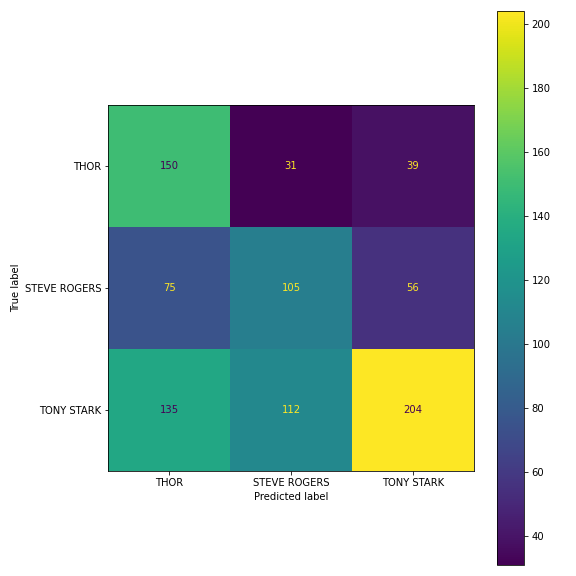
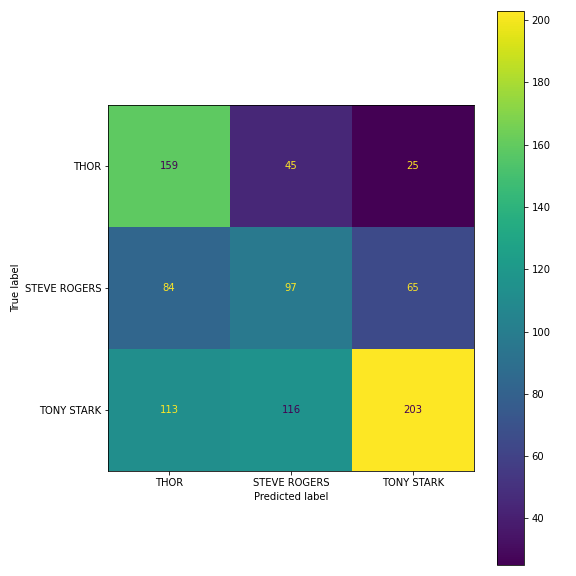
pre pres

diff --git a/src/ImageClassification.py b/src/ImageClassification.py
@@ -64,18 +64,16 @@ def PlotAccuracy(model):
     None
 
     """
-    plt.plot(model.history.history['accuracy'])
-    legends = ['train']
+    fig, ax = plt.subplots(figsize=(8, 8))
+    ax.plot(model.history.history['accuracy'], label="train")
     if 'val_accuracy' in model.history.history:
-        plt.plot(model.history.history['val_accuracy'])
-        legends.append('train')
+        ax.plot(model.history.history['val_accuracy'], label='test')
 
-    plt.title(f'{model.name} Model Accuracy')
-    plt.ylabel('accuracy')
-    plt.xlabel('epoch')
-    plt.legend(legends, loc='upper left')
-    plt.show()
-    plt.savefig(f'../plots/accuracy_{model.name}_model.png')
+    ax.set_title(f'{model.name} Model Accuracy')
+    ax.set_ylabel('accuracy')
+    ax.set_xlabel('epoch')
+    fig.legend(loc='upper left')
+    fig.savefig(f'../plots/accuracy_{model.name}_model.png')
     pass
 
 
@@ -95,6 +93,7 @@ def PlotLoss(model):
     ax.plot(model.history.history['loss'], label='train')
     if 'val_loss' in model.history.history:
         ax.plot(model.history.history['val_loss'], label='test')
+        ax.set_ylim([0, 25])
 
     ax.set_title(f'{model.name} Model Loss')
     ax.set_ylabel('loss')
@@ -123,12 +122,19 @@ class MCU():
         self.X = []
         self.y = []
 
+        imageDist = {}
+
         for imagename in os.listdir('../data/images/all'):
             filename = f'../data/images/all/{imagename}'
             hero_name = self.GetName(imagename)
 
             if hero_name not in self.characters:
                 continue
+
+            if formatted_characters[hero_name] in imageDist:
+                imageDist[formatted_characters[hero_name]] += 1
+            else:
+                imageDist[formatted_characters[hero_name]] = 1
 
             image = load_img(filename, target_size=(IMAGE_SIZE, IMAGE_SIZE, 3))
             data = np.array(image)
@@ -146,7 +152,15 @@ class MCU():
         self.X = np.array(self.X)
         self.y = np.array(self.y)
 
+        self.PlotDist(imageDist)
         self.PlotSampleImages()
+
+    def PlotDist(self, dist):
+        fig, ax = plt.subplots(1, figsize=(8, 8))
+        ax.set_title("Distribution of Images")
+        ax.bar(dist.keys(), dist.values())
+        fig.tight_layout()
+        fig.savefig(f"../plots/image_dist_{'_'.join(self.characters)}.png")
 
     def fit(self):
         self.X_train, self.X_test, self.y_train, self.y_test = train_test_split(self.X, self.y)
@@ -303,7 +317,7 @@ class DefaultNNModel(Classifier):
             keras.layers.Dense(5, activation='softmax')
         ])
         self.model.compile(optimizer='adam', loss=keras.losses.CategoricalCrossentropy(), metrics=['accuracy'])
-        self.history = self.model.fit(self.X_train, self.y_train, epochs=5, batch_size=32)
+        self.history = self.model.fit(self.X_train, self.y_train, epochs=45, batch_size=32, validation_data=(self.X_test, self.y_test))
         self.y_pred = self.model.predict(self.X_test).argmax(axis=1)
         true_vals = self.y_test.argmax(axis=1)
         self.cm = confusion_matrix(y_true=true_vals, y_pred=self.y_pred)
@@ -335,7 +349,7 @@ class DefaultCNNModel(Classifier):
         ])
 
         self.model.compile(optimizer='adam', loss=keras.losses.CategoricalCrossentropy(), metrics=['accuracy'])
-        self.history = self.model.fit(self.X_train, self.y_train, epochs=5, batch_size=32)
+        self.history = self.model.fit(self.X_train, self.y_train, epochs=45, batch_size=32, validation_data=(self.X_test, self.y_test))
         self.y_pred = self.model.predict(self.X_test).argmax(axis=1)
         true_vals = self.y_test.argmax(axis=1)
         self.cm = confusion_matrix(y_true=true_vals, y_pred=self.y_pred)

diff --git a/src/__init__.py b/src/__init__.py
@@ -16,7 +16,6 @@ nnclf.predictions()
 nnclf.model.evaluate(nnclf.X_test, nnclf.y_test)
 PlotConfusionMatrix(nnclf)
 PlotAccuracy(nnclf)
-
 PlotLoss(nnclf)
 
 def_cnnclf = DefaultCNNModel(mcu)
@@ -68,6 +67,6 @@ ironman_steve_thor = NLP.MCU(['THOR', 'STEVE ROGERS', 'TONY STARK'], stop_words=
 ironman_steve_thor.fit(1000)
 ironman_steve_thor.wrongs()
 
-imgclf_five = NLP.MCU(['THOR', 'STEVE ROGERS', 'TONY STARK', 'HULK', "NATASHA ROMANOFF"], stop_words='english')
-imgclf_five.fit()
+imgclf_five = NLP.MCU(['THOR', 'STEVE ROGERS', 'TONY STARK', 'HULK', "NATASHA ROMANOFF"], stop_words=stop_words)
+imgclf_five.fit(1000)
 imgclf_five.wrongs()

diff --git a/README.md b/README.md
@@ -8,6 +8,10 @@ This project was possible due to the datasets available on [www.kaggle.com](http
 ##### __DATA > MCU.CSV [FOR THE SCRIPTS]__
 ---
 
+See my slideshow presentation -> https://docs.google.com/presentation/d/1jZAaJ9fcv64-ndfwdH1Vw5dqB6IYyTe3vrMo1pGYMp0/edit?usp=sharing
+
+---
+
 ## Natural Language Processing
 * Limitations and Challenges
   * Data Imbalance
@@ -176,7 +180,7 @@ In order to be able to do good image classification and not over complicate thin
 
 ![Simple Conv Neural Network](plots/confusion_matrix_Default_Convolutional_Neural_Network.png)
 
-##### Simple Convolutional Neural Network
+##### Custom Convolutional Neural Network
 
 ![Custom Conv Neural Network](plots/confusion_matrix_Custom_Convolutional_Neural_Network.png)
 
